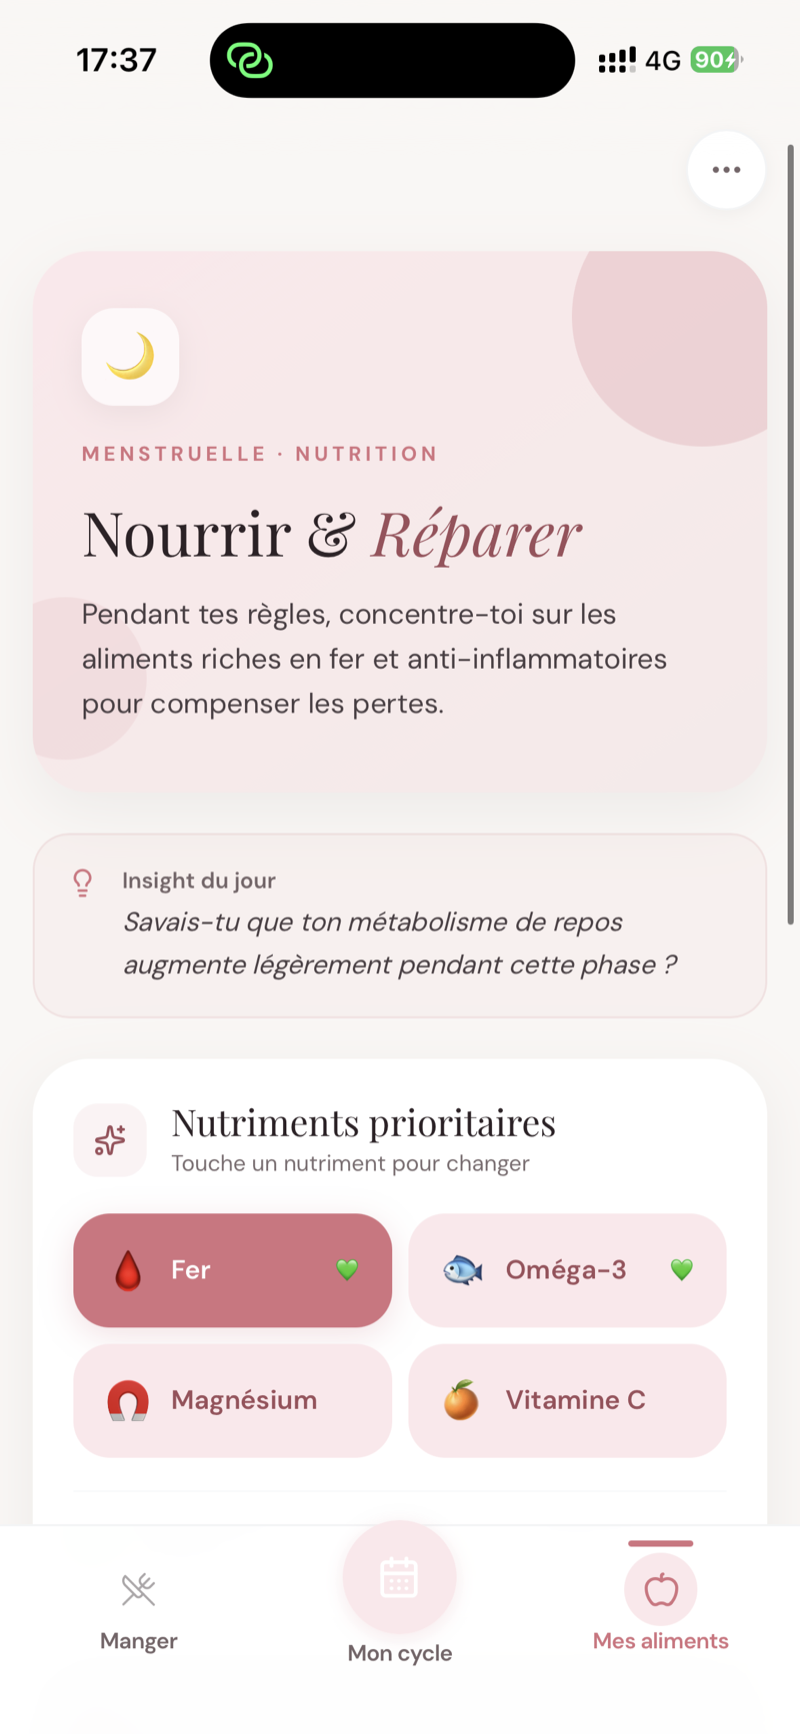
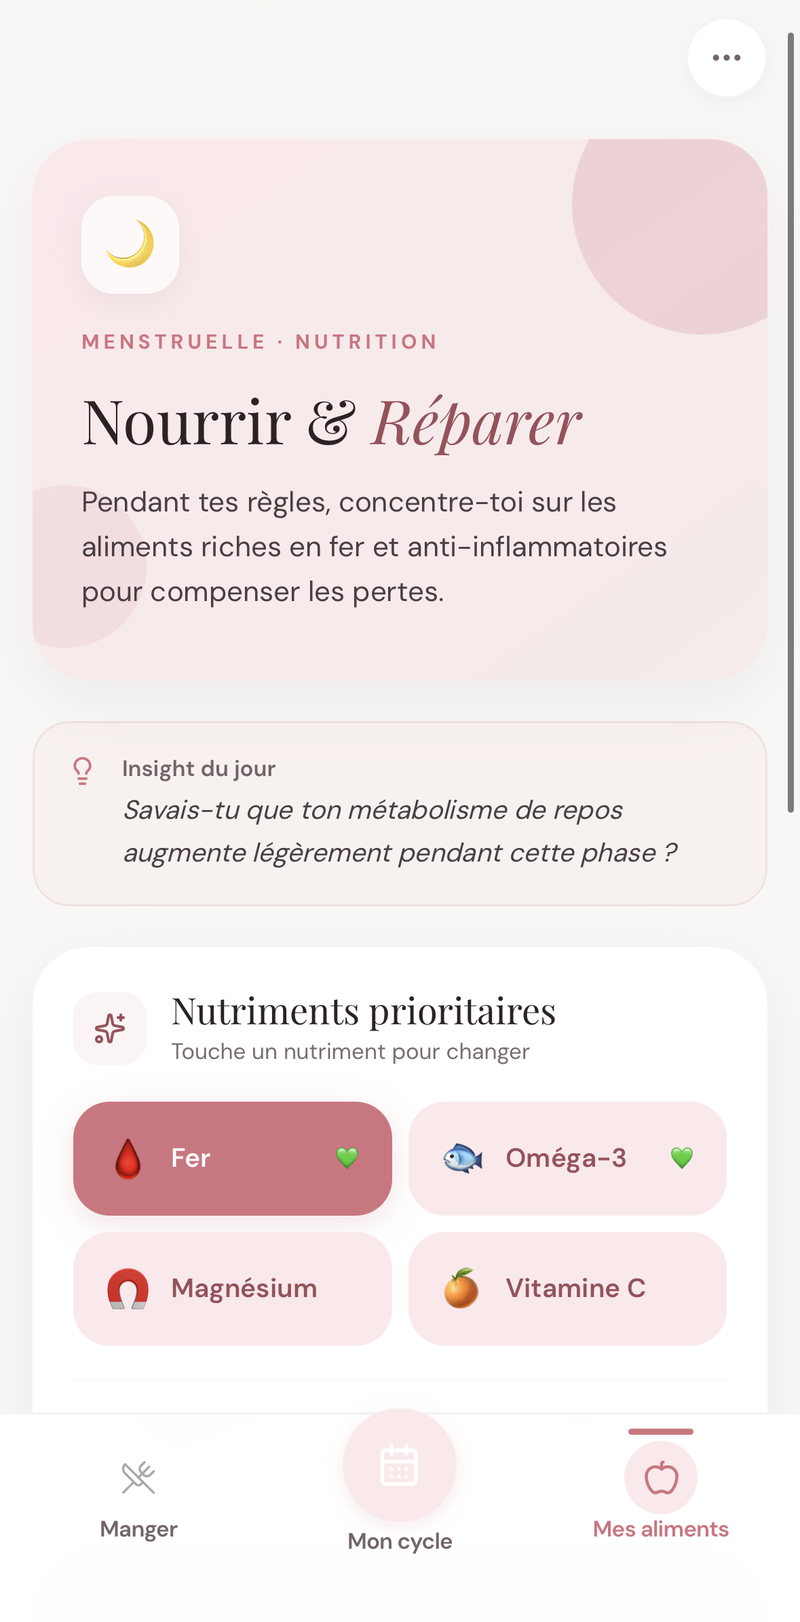
Landing : visuel des 4 phases + mockups iPhone sans hotspot
- Bandeau photo (chignon peu lisible) remplacé par un visuel des 4 phases du cycle
  (émoji + nom + durée + mot-clé, cartes aux couleurs de chaque phase)
- Mockups iPhone : barre d'état recadrée pour retirer le picto Partage de connexion
  (icône chaîne verte + batterie verte) — règle permanente
- Suppression des tirets cadratins restants (sous-titre, footer)

diff --git a/src/pages/Landing.jsx b/src/pages/Landing.jsx
@@ -5,6 +5,7 @@ import { Capacitor } from '@capacitor/core';
 import { Heart, Gift, Check, Apple, Mail, User, ArrowRight, ChevronDown } from 'lucide-react';
 import { BrandSymbol, Divider } from '../components/illustrations/LunaIllustrations';
 import IntroCarousel from '../components/IntroCarousel';
+import { PHASES, PHASE_ORDER } from '../data/phases';
 
 const LEAD_MAGNET_PATH = '/LUNA-Guide-Manger-au-rythme-de-ton-cycle.pdf';
 
@@ -49,6 +50,9 @@ const comparisons = [
   { sans: "Tu te sens gonflée, rien ne te va", avec: "Tu dégonfles avec les bons aliments", emojiSans: '👖', emojiAvec: '☀️' },
   { sans: "20h, rien de prévu, encore un Uber Eats", avec: "Ton menu t'attend, prêt chaque matin", emojiSans: '🥡', emojiAvec: '🍽️' },
 ];
+
+// Les 4 phases du cycle (données partagées avec l'app)
+const phases = PHASE_ORDER.map((key) => ({ key, ...PHASES[key] }));
 
 // Aperçu de l'app (vraies captures)
 const appShots = [
@@ -307,7 +311,7 @@ export default function Landing() {
             className="text-luna-text-muted text-base md:text-lg font-body max-w-md mx-auto mb-7 leading-relaxed"
           >
             {APP_LAUNCHED
-              ? "L'app qui adapte ton assiette à chaque phase — pour retrouver ton énergie, sans culpabiliser."
+              ? "L'app qui adapte ton assiette à chaque phase, pour retrouver ton énergie sans culpabiliser."
               : "L'app qui adapte ton assiette à chaque phase. Inscris-toi et reçois ton guide offert."}
           </motion.p>
 
@@ -330,21 +334,43 @@ export default function Landing() {
         </div>
       </section>
 
-      {/* ══ LE PROBLÈME — photo d'ambiance en bandeau + texte sur crème ═══════ */}
-      <section className="bg-luna-bg">
-        <div className="relative">
-          <img src="/ambiance-cuisine.jpg" alt="" className="w-full h-[320px] md:h-[420px] object-cover object-top" />
-          {/* fondu vers le crème pour une transition douce */}
-          <div className="absolute bottom-0 inset-x-0 h-28" style={{ background: 'linear-gradient(180deg, rgba(250,247,245,0) 0%, #FAF7F5 100%)' }} />
-        </div>
-        <div className="px-6 pt-4 pb-14 max-w-xl mx-auto text-center">
+      {/* ══ LE PROBLÈME + LES 4 PHASES ═══════════════════════════════════════ */}
+      <section className="bg-luna-bg px-5 py-16 md:py-20">
+        <div className="max-w-xl mx-auto text-center mb-10">
           <h2 className="font-display text-[27px] md:text-4xl text-luna-text leading-tight mb-3">
             Ton corps te parle chaque jour.<br />
             <em style={{ fontStyle: 'italic', color: '#A85A66' }}>Et si tu l'écoutais ?</em>
           </h2>
-          <p className="text-luna-text-muted font-body text-sm md:text-base leading-relaxed max-w-sm mx-auto">
-            Chaque phase de ton cycle a ses besoins. Personne ne t'a appris à les nourrir. LUNA, si.
+          <p className="text-luna-text-muted font-body text-sm md:text-base leading-relaxed max-w-md mx-auto">
+            Ton cycle a 4 phases. Chacune a ses besoins, et personne ne t'a appris à les nourrir. LUNA, si.
           </p>
+        </div>
+        <div className="grid grid-cols-2 md:grid-cols-4 gap-3 md:gap-4 max-w-2xl mx-auto">
+          {phases.map((p, i) => (
+            <motion.div
+              key={p.key}
+              initial={{ opacity: 0, y: 16 }}
+              whileInView={{ opacity: 1, y: 0 }}
+              viewport={{ once: true }}
+              transition={{ delay: i * 0.08 }}
+              className="rounded-[22px] px-4 py-6 text-center"
+              style={{ backgroundColor: p.bgColor }}
+            >
+              <span className="block text-4xl md:text-5xl mb-3">{p.icon}</span>
+              <h3 className="font-display text-lg md:text-xl leading-tight" style={{ color: p.colorDark }}>
+                {p.shortName}
+              </h3>
+              <p className="text-[11px] font-body font-bold uppercase tracking-widest mt-1.5" style={{ color: p.color }}>
+                Jours {p.days}
+              </p>
+              <span
+                className="inline-block mt-3 px-3 py-1 rounded-pill text-[11px] font-body font-semibold text-white"
+                style={{ backgroundColor: p.color }}
+              >
+                {p.keyword}
+              </span>
+            </motion.div>
+          ))}
         </div>
       </section>
 
@@ -484,7 +510,7 @@ export default function Landing() {
           Conçu avec <Heart size={13} className="text-luna-primary fill-luna-primary" /> par des femmes, pour des femmes.
         </p>
         <p className="text-xs text-luna-text-hint font-body mt-1">
-          LUNA — Comprends ton cycle. Adapte ton assiette.
+          LUNA · Comprends ton cycle. Adapte ton assiette.
         </p>
         <div className="flex items-center justify-center gap-4 mt-5 text-xs font-body">
           <Link to="/confidentialite" className="text-luna-text-muted hover:text-luna-rose transition-colors">Confidentialité</Link>